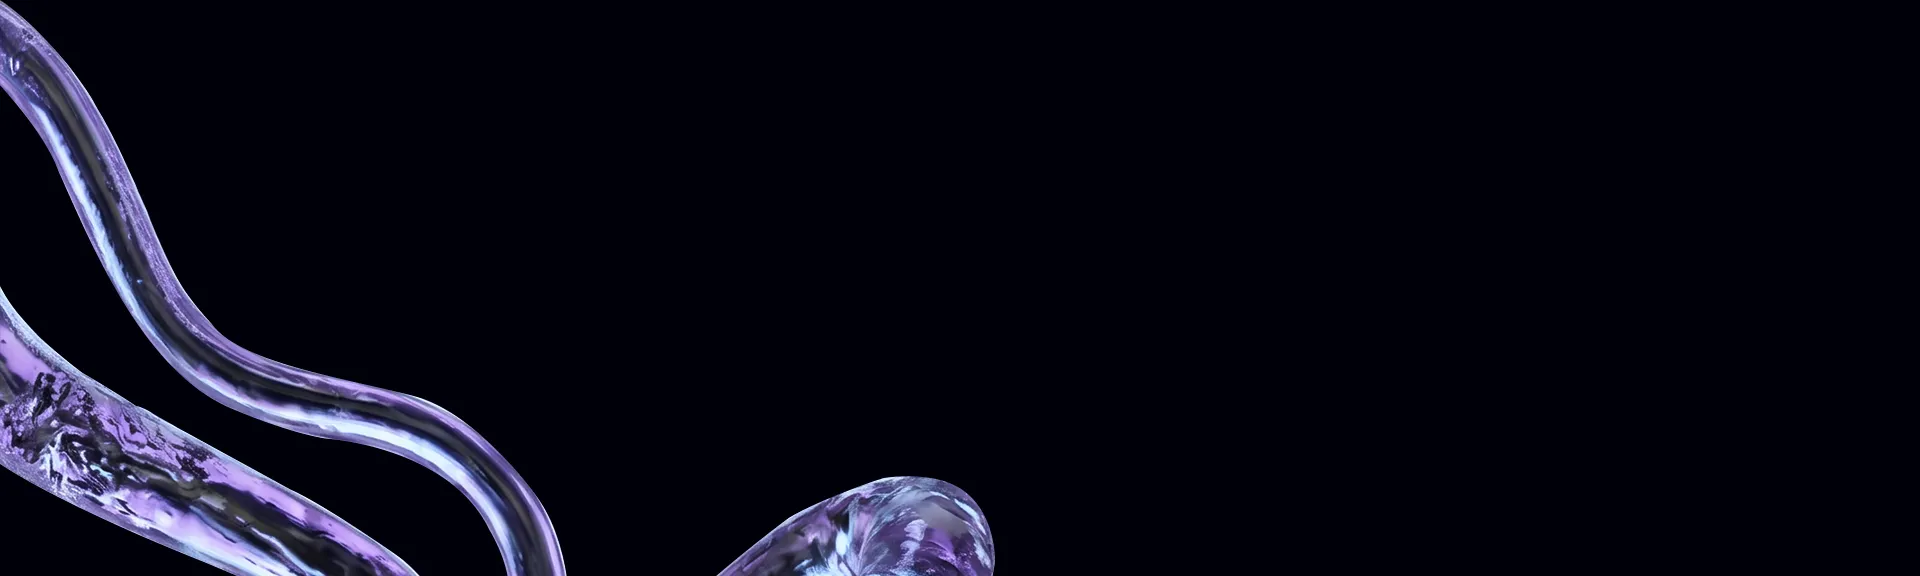
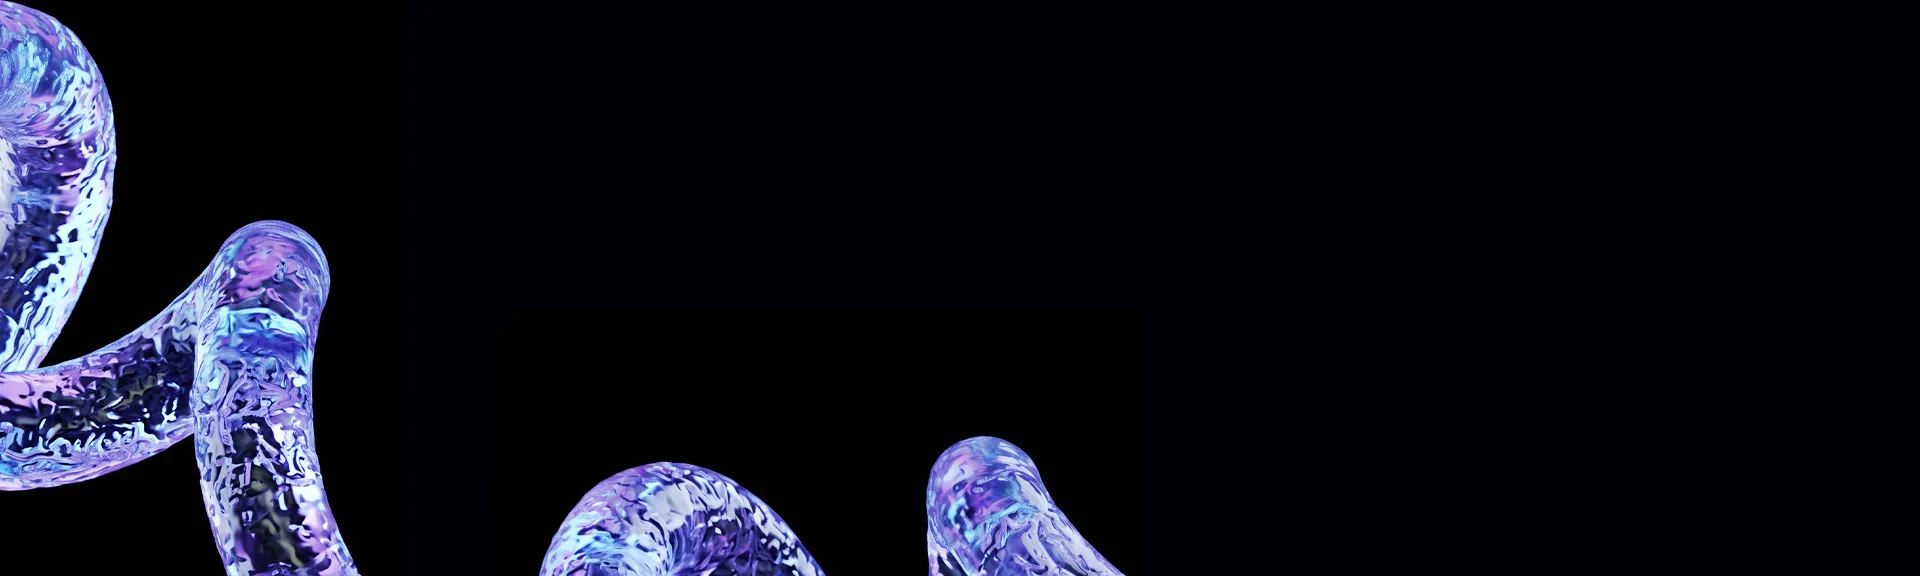
feat(aisummit): arte da agenda nova e centralizada no pe em tela baixa
Abaixo de 768 de altura (acima de 864 de largura) a arte fixa da agenda
fica center bottom com min(115%, 1920px) de largura. Imagem do palco
trocada (hash atualizado no style.css).

Changed region(s): [[0.0, 0.0, 0.5938, 1.0]]

diff --git a/ed/aisummit/dependencias/style.css b/ed/aisummit/dependencias/style.css
@@ -1381,7 +1381,7 @@ main {
        côncavo com --pc200 nas laterais de baixo + degradê --pc200-10 de
        baixo pra cima), que o fundo --bb da seção esconderia. */
     background:
-        url("/ed/aisummit/dependencias/agenda/ais-agenda-palco.webp?v=3927c75f") no-repeat left bottom / min(100%, 1920px) auto,
+        url("/ed/aisummit/dependencias/agenda/ais-agenda-palco.webp?v=5739eecb") no-repeat left bottom / min(100%, 1920px) auto,
         radial-gradient(ellipse 150% 125% at 50% 0%, transparent 90%, var(--pc200) 100%),
         linear-gradient(to top, var(--pc200-10), transparent);
     /* O fundo da imagem é --bb opaco: lighten deixa o preto dela ceder à
@@ -1618,6 +1618,15 @@ main {
     .ais-agenda-card  { padding: 128px 16px 80px; }
     .ais-agenda-num   { left: 8px; top: 24px; font-size: 6rem; }
     .ais-agenda-avatar { width: 64px; height: 64px; }
+}
+/* Tela baixa (altura abaixo de 768, acima de 864 de largura): a arte
+   centralizada no pé e um pouco maior que a tela (115%, até 1920), senão
+   ela fica pequena demais no bloco de 100svh. Até 864 segue a de 960 fixa. */
+@media (min-width: 865px) and (max-height: 767px) {
+    .ais-agenda-arte-fixa {
+        background-position: center bottom, 0 0, 0 0;
+        background-size: min(115%, 1920px) auto, auto, auto;
+    }
 }
 
 /* Palco (.is-seq, script.js; sem reduced motion, acima de 864): a

diff --git a/ed/aisummit/index.html b/ed/aisummit/index.html
@@ -126,7 +126,7 @@
     <link rel="stylesheet" href="/ed/site-dependencias/root.css">
 
     <!-- ─── CSS específico desta página ──────────────────────── -->
-    <link rel="stylesheet" href="/ed/aisummit/dependencias/style.css?v=415">
+    <link rel="stylesheet" href="/ed/aisummit/dependencias/style.css?v=416">
 
     <!-- Google Tag Manager -->
     <script>(function(w,d,s,l,i){w[l]=w[l]||[];w[l].push({'gtm.start':
